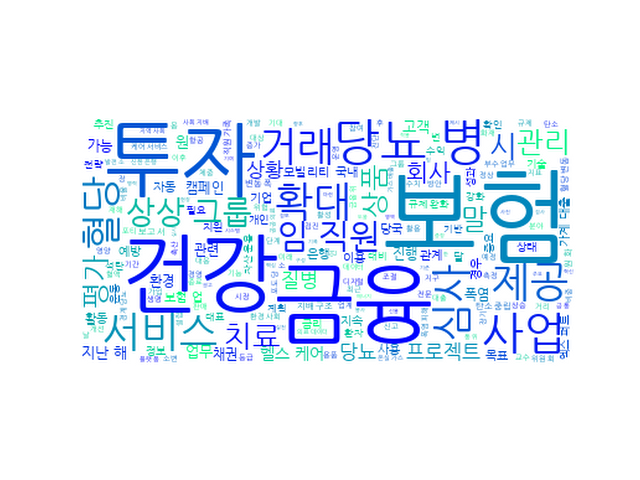
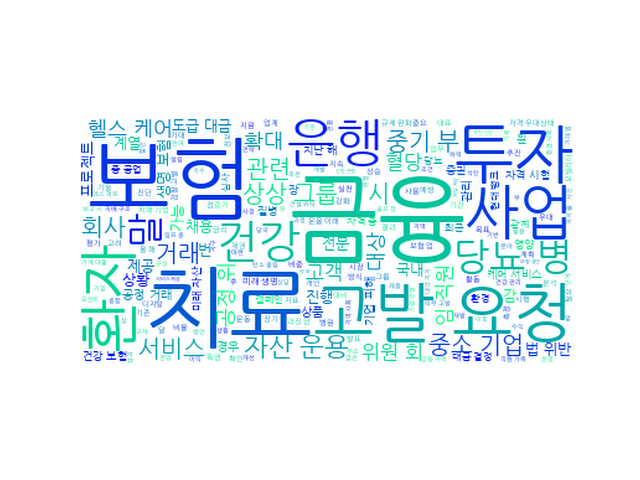
Updated README content

Changed region(s): [[0.125, 0.25, 0.9062, 0.75]]

diff --git a/README.md b/README.md
@@ -22,19 +22,35 @@
 
 5. 아시아나항공, 거래재개 첫날 4.17%↑…지배구조 개선 기대 [0] ([Link](https://news.naver.com/main/read.nhn?mode=LSD&mid=sec&sid1=101&oid=008&aid=0004617281))
 
+6. 현대오일뱅크 자회사 현대오일터미널 사모펀드에 1,800억원에 매각 [0] ([Link](https://news.naver.com/main/read.nhn?mode=LSD&mid=sec&sid1=101&oid=011&aid=0003937889))
+
+7. 김신 SK증권 사장, 탈 플라스틱 '고고챌린지' 동참 [0] ([Link](https://news.naver.com/main/read.nhn?mode=LSD&mid=sec&sid1=101&oid=003&aid=0010612275))
+
+8. 상상인그룹, 걷기 프로젝트로 탄소중립 앞장 [0] ([Link](https://news.naver.com/main/read.nhn?mode=LSD&mid=sec&sid1=101&oid=003&aid=0010612272))
+
 ----------
 
 *[금융 소식]*
 
 1. 코리아엑스퍼트, 'NexS3-EUS 솔루션'으로 질병 인수심사 자동화 체계 완성 [0] ([Link](https://news.naver.com/main/read.nhn?mode=LSD&mid=sec&sid1=101&oid=031&aid=0000611173))
 
-2. 가계대출 늘리는 금융사에 페널티… 논의 본격화 [0] ([Link](https://news.naver.com/main/read.nhn?mode=LSD&mid=sec&sid1=101&oid=016&aid=0001862316))
+2. 뉴욕증시, 소매판매 호조 속에 상승 출발 [0] ([Link](https://news.naver.com/main/read.nhn?mode=LSD&mid=sec&sid1=101&oid=001&aid=0012530592))
 
-3. 하나은행, 기업고객 대상 해외송금도 비대면으로 가능 [0] ([Link](https://news.naver.com/main/read.nhn?mode=LSD&mid=sec&sid1=101&oid=008&aid=0004617301))
+3. 일본 스가 내각 지지율 20%대로 급락… 국정수행 동력 상실 [2] ([Link](https://news.naver.com/main/read.nhn?mode=LSD&mid=sec&sid1=104&oid=032&aid=0003086049))
 
-4. [게시판] 김신 SK증권 사장, 플라스틱 줄이기 '고고챌린지' 동참 [0] ([Link](https://news.naver.com/main/read.nhn?mode=LSD&mid=sec&sid1=101&oid=001&aid=0012528795))
+4. 가계대출 늘리는 금융사에 페널티… 논의 본격화 [0] ([Link](https://news.naver.com/main/read.nhn?mode=LSD&mid=sec&sid1=101&oid=016&aid=0001862316))
 
-5. 신한은행, 모빌리티 시장 선점 위해 포티투닷과 업무협약 [0] ([Link](https://news.naver.com/main/read.nhn?mode=LSD&mid=sec&sid1=101&oid=277&aid=0004938400))
+5. 하나은행, 기업고객 대상 해외송금도 비대면으로 가능 [0] ([Link](https://news.naver.com/main/read.nhn?mode=LSD&mid=sec&sid1=101&oid=008&aid=0004617301))
+
+6. [게시판] 김신 SK증권 사장, 플라스틱 줄이기 '고고챌린지' 동참 [0] ([Link](https://news.naver.com/main/read.nhn?mode=LSD&mid=sec&sid1=101&oid=001&aid=0012528795))
+
+7. 신한은행, 모빌리티 시장 선점 위해 포티투닷과 업무협약 [0] ([Link](https://news.naver.com/main/read.nhn?mode=LSD&mid=sec&sid1=101&oid=277&aid=0004938400))
+
+----------
+
+*[당사 소식]*
+
+1. 라이나생명, 디지털 보험업 진출 채비… AI인재 채용 나섰다 [0] ([Link](https://news.naver.com/main/read.nhn?mode=LSD&mid=sec&sid1=101&oid=417&aid=0000715457))
 
 ----------
 
@@ -46,9 +62,25 @@
 
 3. [투자노트] 가까워진 금리 인상···금융주 말고 뭘 사야 하나요 [0] ([Link](https://news.naver.com/main/read.nhn?mode=LSD&mid=sec&sid1=101&oid=366&aid=0000747140))
 
-4. 체중 줄고, 갈증 심하고, 소변 자주 마렵다고? 이미 '당뇨병' [0] ([Link](https://news.naver.com/main/read.nhn?mode=LSD&mid=sec&sid1=102&oid=076&aid=0003755179))
+4. 삼성창원병원, ‘폐렴 진료 잘하는 병원’ 선정 [0] ([Link](https://news.naver.com/main/read.nhn?mode=LSD&mid=sec&sid1=102&oid=002&aid=0002200314))
 
-5. 신한라이프, CJ제일제당과 맞춤형 헬스케어 서비스 출시 [0] ([Link](https://news.naver.com/main/read.nhn?mode=LSD&mid=sec&sid1=101&oid=018&aid=0004986458))
+5. 혈액암 환자의 새 희망 ‘CAR-T’…건보 적용해 고액 치료비 부담 줄여야 [기고] [0] ([Link](https://news.naver.com/main/read.nhn?mode=LSD&mid=sec&sid1=103&oid=032&aid=0003086043))
+
+6. 조광희 경기도의원, ‘국민건강보험공단 안양지사 자문위원회’ 위원 위촉 [0] ([Link](https://news.naver.com/main/read.nhn?mode=LSD&mid=sec&sid1=004&oid=081&aid=0003202274))
+
+7. 중기부, 미래에셋자산운용·GS건설 등 공정위에 고발요청 [0] ([Link](https://news.naver.com/main/read.nhn?mode=LSD&mid=sec&sid1=101&oid=011&aid=0003937892))
+
+8. 체중 줄고, 갈증 심하고, 소변 자주 마렵다고? 이미 '당뇨병' [0] ([Link](https://news.naver.com/main/read.nhn?mode=LSD&mid=sec&sid1=102&oid=076&aid=0003755179))
+
+9. 중기부, 미래에셋·GS건설·한진重 공정위에 고발요청 [0] ([Link](https://news.naver.com/main/read.nhn?mode=LSD&mid=sec&sid1=101&oid=277&aid=0004938811))
+
+10. 신한라이프, CJ제일제당과 맞춤형 헬스케어 서비스 출시 [0] ([Link](https://news.naver.com/main/read.nhn?mode=LSD&mid=sec&sid1=101&oid=018&aid=0004986458))
+
+11. 중기부, 공정위에 미래에셋·GS건설·한진重 검찰 고발 요청 [1] ([Link](https://news.naver.com/main/read.nhn?mode=LSD&mid=sec&sid1=101&oid=015&aid=0004579469))
+
+12. 오늘의 부고 - 2021년 7월 17일 [0] ([Link](https://news.naver.com/main/read.nhn?mode=LSD&mid=sec&sid1=102&oid=032&aid=0003086025))
+
+13. 중기부, 공정위에 미래에셋·GS건설·한진중공업 검찰 고발 요청 [0] ([Link](https://news.naver.com/main/read.nhn?mode=LSD&mid=sec&sid1=101&oid=030&aid=0002958195))
 
 ----------
 
@@ -56,5 +88,19 @@
 
 1. 빗장 풀린 보험사 신사업…활성화 대책 속도 [0] ([Link](https://news.naver.com/main/read.nhn?mode=LSD&mid=sec&sid1=101&oid=029&aid=0002687410))
 
-2. 삼성화재·생명, ESG경영 구체화… “2030년까지 30.5조원 투자” [0] ([Link](https://news.naver.com/main/read.nhn?mode=LSD&mid=sec&sid1=101&oid=417&aid=0000715462))
+2. 신한도 가세…보험사 헬스케어 경쟁 뜨겁다 [0] ([Link](https://news.naver.com/main/read.nhn?mode=LSD&mid=sec&sid1=101&oid=015&aid=0004579331))
+
+3. KB스타즈 '기쁨은 이렇게' [0] ([Link](https://news.naver.com/main/read.nhn?mode=LSD&mid=sec&sid1=102&oid=421&aid=0005483056))
+
+4. 한국FPSB, 금융사 등 채용시 재무설계사 자격 우대 현황 발표 [0] ([Link](https://news.naver.com/main/read.nhn?mode=LSD&mid=sec&sid1=004&oid=081&aid=0003202243))
+
+5. KB스타즈 '우승이 기뻐요' [0] ([Link](https://news.naver.com/main/read.nhn?mode=LSD&mid=sec&sid1=102&oid=421&aid=0005483058))
+
+6. KB스타즈 '기쁨은 이렇게' [0] ([Link](https://news.naver.com/main/read.nhn?mode=LSD&mid=sec&sid1=102&oid=421&aid=0005483055))
+
+7. 삼성화재·생명, ESG경영 구체화… “2030년까지 30.5조원 투자” [0] ([Link](https://news.naver.com/main/read.nhn?mode=LSD&mid=sec&sid1=101&oid=417&aid=0000715462))
+
+8. 2021 삼성생명 서머리그 박신자컵 'KB스타즈'우승 [0] ([Link](https://news.naver.com/main/read.nhn?mode=LSD&mid=sec&sid1=102&oid=421&aid=0005483158))
+
+9. 한국FPSB, CFP 및 AFPK자격 등 금융자격 우대 현황 조사 발표 [0] ([Link](https://news.naver.com/main/read.nhn?mode=LSD&mid=sec&sid1=004&oid=366&aid=0000747336))
 
